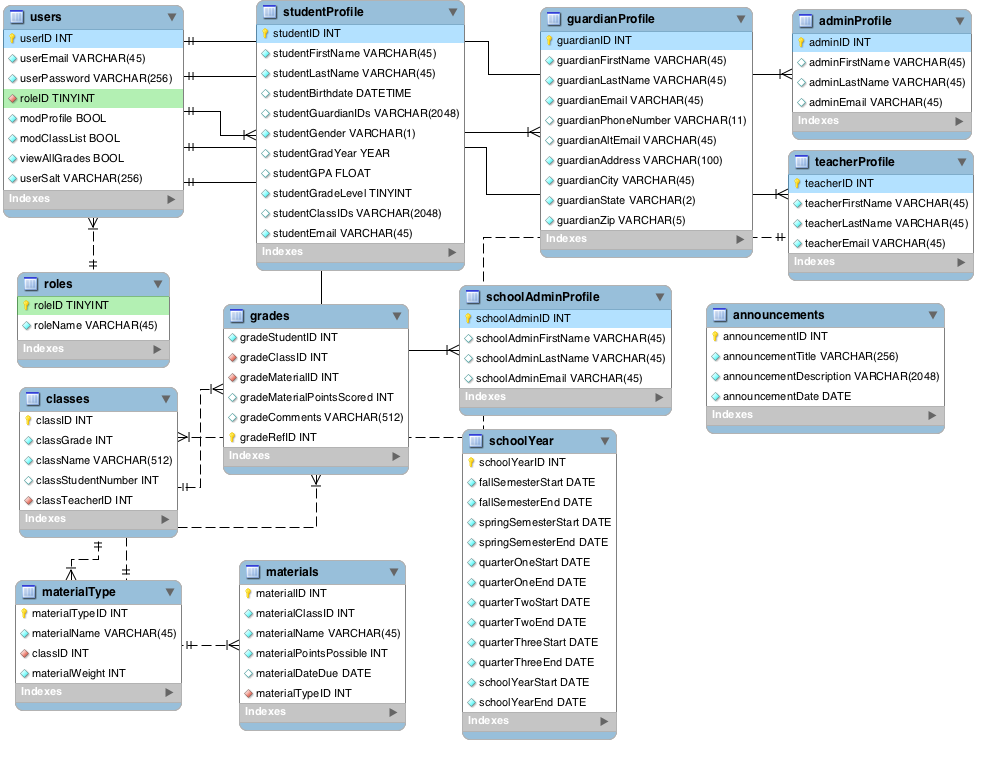
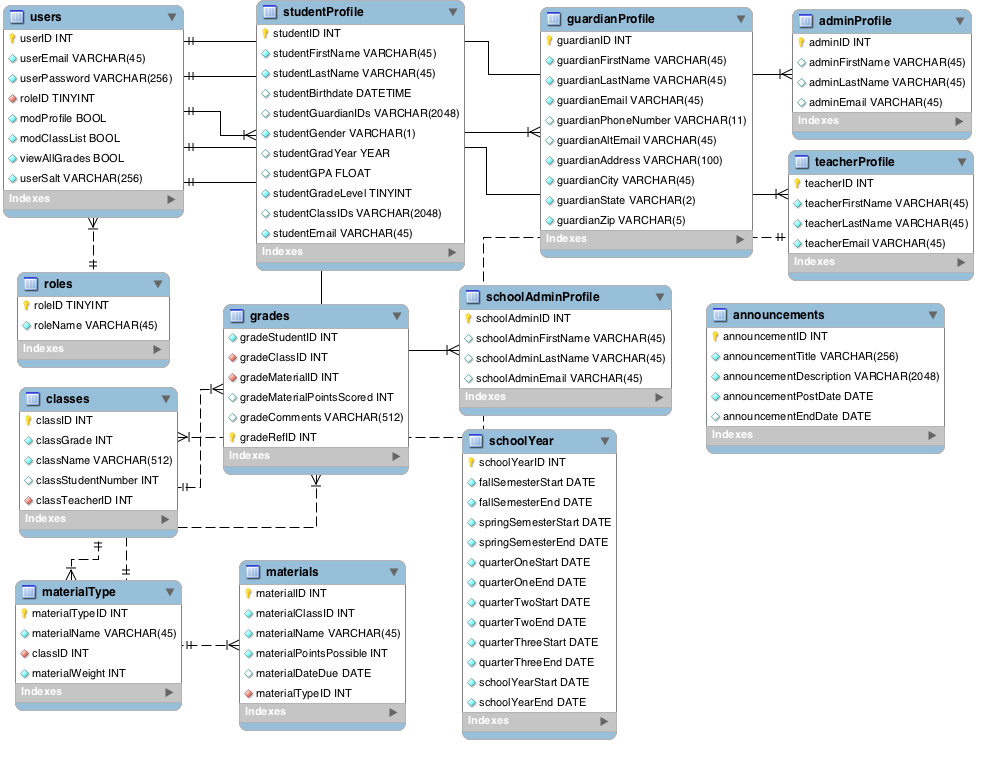
Added Create Announcement feature and tweaked how announcements are displayed

diff --git a/web/includes/adminFunctions/viewCreateAnnouncementForm.php b/web/includes/adminFunctions/viewCreateAnnouncementForm.php
@@ -1,0 +1,92 @@
+<?php
+
+function viewCreateAnnouncementForm($mysqli)
+{
+
+	//This is required otherwise it defaults to UTC I think
+	date_default_timezone_set('America/New_York');
+	echo '
+            <div class="row">
+                <div class="col-lg-6">
+                    <div class="panel panel-default">
+                        <div class="panel-heading">
+	';
+						if (isset($_SESSION['invalidCreate']))
+                        {
+                        	echo $_SESSION['invalidCreate'];
+                            unset($_SESSION['invalidCreate']);
+                        }
+						else if (isset($_SESSION['createSuccess']))
+						{
+                        	echo $_SESSION['createSuccess'];
+                            unset($_SESSION['createSuccess']);
+						}
+                        else
+                        {
+                        	echo 'Create Announcement';
+                        }
+echo '
+                        </div>
+                        <!-- /.panel-heading -->
+                        <div class="panel-body">
+                            <!-- Nav tabs -->
+                            <ul class="nav nav-tabs">
+                                <li class="active"><a href="#createAnnoucement" data-toggle="tab">Create Announcement</a>
+                                </li>
+                            </ul>
+
+                            <!-- Tab panes -->
+                            <div class="tab-content">
+                                <div class="tab-pane fade in active" id="administrator">
+                                    <h4>Create Announcement</h4>
+                                    <form action="../includes/adminFunctions/createAnnouncement" method="post" role="form">
+                                        <div class="form-group">
+                                            <input class="form-control" name="announcementTitle" placeholder="Announcement Title">
+                                        </div>
+                                        <div class="form-group">
+											<label>Announcement Post Date</label>
+											<input class="form-control" type="date" name="announcementPostDate" value="' . date('Y-m-d') . '" min="' . date('Y-m-d') . '">
+                                        </div>
+                                        <div class="form-group">
+											<label>Announcement End Date</label>
+											<input class="form-control" type="date" name="announcementEndDate" min="' . date('Y-m-d') . '">
+                                        </div>
+										<div class="form-group">
+                                            <label>Announcement Description</label>
+                                            <textarea class="form-control" name="announcementDescription" rows="5"></textarea>
+                                        </div>
+                                        <button type="submit" class="btn btn-default">Create Announcement</button>
+                                    </form>
+                                </div>
+                            </div>
+                        </div>
+                        <!-- /.panel-body -->
+                    </div>
+                    <!-- /.panel -->
+                </div>
+			</div>
+';
+
+}
+
+
+function getUserRoles($mysqli)
+{
+    // This function gets the number of classes
+        if ($stmt = $mysqli->prepare("SELECT roleName FROM roles"))
+        {
+            $stmt->execute();
+			$stmt->bind_result($roleName);
+            $stmt->store_result();
+			
+			while($stmt->fetch())
+			{
+				echo "<option>$roleName</option>";
+			}
+        }
+        else
+        {
+            return 0;
+        }
+}
+?>

diff --git a/web/includes/userFunctions/viewAnnouncements.php b/web/includes/userFunctions/viewAnnouncements.php
@@ -1,6 +1,7 @@
 <?php
 include_once '../dbConnect.php';
 
+date_default_timezone_set('America/New_York');
 
 function viewAnnouncements($mysqli)
 {
@@ -23,19 +24,23 @@ function viewAnnouncements($mysqli)
                                     </tr>
                                 </thead>
                                 <tbody>';
-                                    if ($stmt = $mysqli->prepare("SELECT announcementDate, announcementTitle, announcementDescription FROM announcements"))
+                                    if ($stmt = $mysqli->prepare("SELECT announcementPostDate, announcementEndDate, announcementTitle, announcementDescription FROM announcements"))
                                     {   
                                         $stmt->execute();
-                                        $stmt->bind_result($announcementDate, $announcementTitle, $announcementDescription);
+                                        $stmt->bind_result($announcementPostDate, $announcementEndDate, $announcementTitle, $announcementDescription);
                                         $stmt->store_result();
 
                                         while($stmt->fetch())
-                                        {   
-                                            echo "<tr>";
-                                            echo "<td>" . $announcementDate . "</td>";
-                                            echo "<td>" . $announcementTitle . "</td>";
-                                            echo "<td>" . $announcementDescription . "</td>";
-                                            echo "</tr>";
+                                        {  
+
+											if ((($announcementEndDate >= date('Y-m-d')) || ($announcementEndDate === NULL)) && $announcementPostDate <= date('Y-m-d'))
+											{
+                                            	echo "<tr>";
+                                            	echo "<td>" . $announcementPostDate . "</td>";
+                                            	echo "<td>" . $announcementTitle . "</td>";
+                                            	echo "<td>" . $announcementDescription . "</td>";
+                                            	echo "</tr>";
+											}
                                         }   
                                     }   
                                     else

diff --git a/web/includes/adminFunctions/createAnnouncement.php b/web/includes/adminFunctions/createAnnouncement.php
@@ -1,0 +1,51 @@
+<?php
+include_once '../dbConnect.php';
+include_once '../functions.php';
+
+sec_session_start(); // Our custom secure way of starting a PHP session.
+
+if ((login_check($mysqli) == true) && (roleID_check($mysqli) == 1))
+{
+	createAnnouncement($mysqli);
+}
+else
+{
+   	$_SESSION['invalidCreate'] = 'Announcement could not be created';
+   	header('Location: ../../pages/createAnnouncement');
+
+	return;
+}
+
+function createAnnouncement($mysqli)
+{
+	if (isset($_POST['announcementTitle'], $_POST['announcementPostDate'], $_POST['announcementEndDate'], $_POST['announcementDescription'])) 
+	{
+    	$announcementTitle = $_POST['announcementTitle'];
+		$announcementDescription = $_POST['announcementDescription'];
+    	$announcementPostDate = $_POST['announcementPostDate'];
+		$announcementEndDate = $_POST['announcementEndDate'];
+
+    	if ($stmt = $mysqli->prepare("INSERT INTO announcements (announcementTitle, announcementDescription, announcementPostDate, announcementEndDate) VALUES (?, ?, ?, ?)"))
+		{
+    		$stmt->bind_param('ssss', $announcementTitle, $announcementDescription, $announcementPostDate, $announcementEndDate); 
+	    	$stmt->execute();    // Execute the prepared query.
+			$_SESSION['createSuccess'] = "Announcement Created";
+   	   		header('Location: ../../pages/createAnnouncement');
+		}
+		else
+		{
+    		// The correct POST variables were not sent to this page.
+    		$_SESSION['invalidCreate'] = 'Announcement could not be created';
+   	   		header('Location: ../../pages/createAnnouncement');
+		}
+    }
+	else
+	{
+    	// The correct POST variables were not sent to this page.
+    	$_SESSION['invalidCreate'] = 'Announcement could not be created';
+   	   	header('Location: ../../pages/createAnnouncement');
+	}
+}
+
+?>
+

diff --git a/web/pages/createAnnouncement.php b/web/pages/createAnnouncement.php
@@ -1,0 +1,42 @@
+<?php include("../includes/customizations.php");?>
+
+<!DOCTYPE html>
+<html lang="en">
+
+<head>
+
+    <title><?php echo aliasOpenEasySIS; ?> - Create Announcement</title>
+    <!-- Header Information, CSS, and JS -->
+    <?php include("../includes/header.php"); ?>
+
+</head>
+
+<body>
+
+    <div id="wrapper">
+
+	<!-- Navigation Menu -->
+        <?php include('../includes/navPanel.php'); ?>
+		<?php include('../includes/adminFunctions/viewCreateAnnouncementForm.php'); ?>
+
+        <div id="page-wrapper">
+            <div class="row">
+                <div class="col-lg-12">
+                    <h1 class="page-header">Create Announcement</h1>
+                </div>
+                <!-- /.col-lg-12 -->
+            </div>
+			
+		<?php 
+			viewCreateAnnouncementForm($mysqli); 
+		?>
+
+        </div>
+        <!-- /#page-wrapper -->
+
+    </div>
+    <!-- /#wrapper -->
+
+</body>
+
+</html>

diff --git a/web/includes/navPanel.php b/web/includes/navPanel.php
@@ -55,6 +55,9 @@ echo '
 									<a href="adminDashboard">Overview</a>
 								</li>
 								<li>
+									<a href="createAnnouncement">Create Announcement</a>
+								</li>
+								<li>
 									<a href="createUserAccount">Create User</a>
 								</li>
 								<li>
